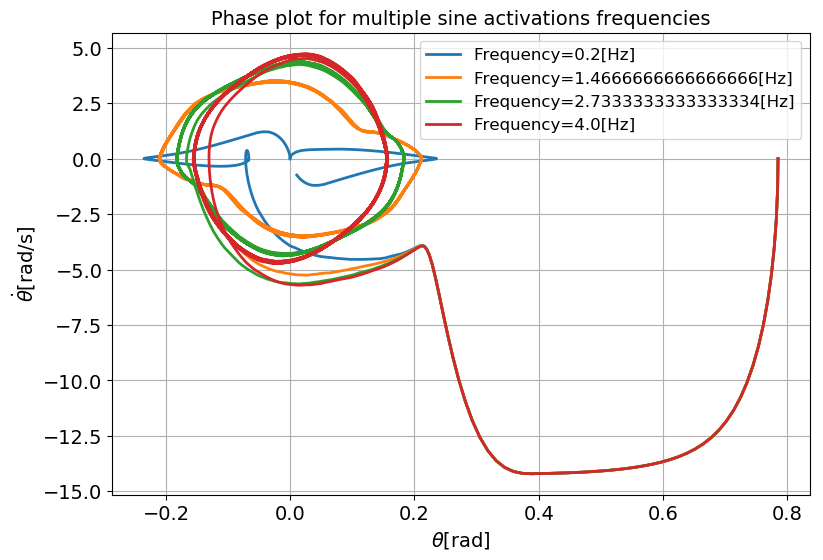
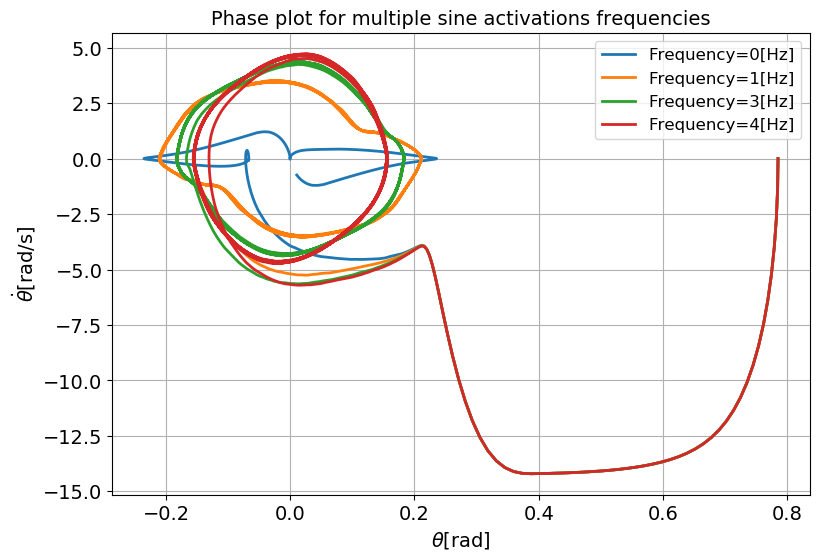
Final wrap up ex1, ex2, ex3
Unimportant small cosmetic changes on ex2. This commit marks the end of lab5 and lab6

Changed region(s): [[0.5164, 0.0607, 0.9721, 0.2429]]

diff --git a/LAB06/Python/exercise2.py b/LAB06/Python/exercise2.py
@@ -299,13 +299,13 @@ def exercise2c(time_param):
                                                                     Waveform.RECT, False)
         # Add curves
         plt.figure("2_c_phase_plot_sine_frq")
-        plt.plot(res_sin[:, 1], res_sin[:, 2], label="Frequency={}[Hz]".format(frq))
+        plt.plot(res_sin[:, 1], res_sin[:, 2], label="Frequency=%1.f[Hz]" % frq)
         plt.figure("2_c_state_plot_sine_frq")
-        plt.plot(res_sin[:, 0], res_sin[:, 1], label="Frequency={}[Hz]".format(frq))
+        plt.plot(res_sin[:, 0], res_sin[:, 1], label="Frequency=%1.f[Hz]" % frq)
         plt.figure("2_c_phase_plot_rect_frq")
-        plt.plot(res_rect[:, 1], res_rect[:, 2], label="Frequency={}[Hz]".format(frq))
+        plt.plot(res_rect[:, 1], res_rect[:, 2], label="Frequency=%1.f[Hz]" % frq)
         plt.figure("2_c_state_plot_rect_frq")
-        plt.plot(res_rect[:, 0], res_rect[:, 1], label="Frequency={}[Hz]".format(frq))
+        plt.plot(res_rect[:, 0], res_rect[:, 1], label="Frequency=%1.f[Hz]" % frq)
 
     plt.figure("2_c_phase_plot_sine_frq")
     plt.title("Phase plot for multiple sine activations frequencies")
@@ -344,13 +344,13 @@ def exercise2c(time_param):
                                                                     Waveform.RECT, False)
         # Add curves
         plt.figure("2_c_phase_plot_sine_amp")
-        plt.plot(res_sin[:, 1], res_sin[:, 2], label="Amplitude={}[Hz]".format(amplitude))
+        plt.plot(res_sin[:, 1], res_sin[:, 2], label="Amplitude=%1.f" % amplitude)
         plt.figure("2_c_state_plot_sine_amp")
-        plt.plot(res_sin[:, 0], res_sin[:, 1], label="Amplitude={}[Hz]".format(amplitude))
+        plt.plot(res_sin[:, 0], res_sin[:, 1], label="Amplitude=%1.f" % amplitude)
         plt.figure("2_c_phase_plot_rect_amp")
-        plt.plot(res_rect[:, 1], res_rect[:, 2], label="Amplitude={}[Hz]".format(amplitude))
+        plt.plot(res_rect[:, 1], res_rect[:, 2], label="Amplitude=%1.f" % amplitude)
         plt.figure("2_c_state_plot_rect_amp")
-        plt.plot(res_rect[:, 0], res_rect[:, 1], label="Amplitude={}[Hz]".format(amplitude))
+        plt.plot(res_rect[:, 0], res_rect[:, 1], label="Amplitude=%1.f" % amplitude)
 
     plt.figure("2_c_phase_plot_sine_amp")
     plt.title("Phase plot for multiple sine activations amplitude")
